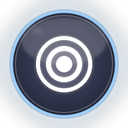
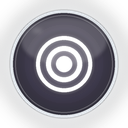
fix(staff): restyle accept/decline stickers to black modpanel glass
Drop green/red/blue halos — same white-on-black glass as warn/mute.
Bump emoji names to hakumo_w3_* so Discord re-uploads the new art.

Changed region(s): [[0.0625, 0.0625, 0.9375, 0.9375]]

diff --git a/services/menu_banners.py b/services/menu_banners.py
@@ -92,11 +92,11 @@ STICKER_SPECS = {
     'helper':     {'accent': (240, 240, 245), 'icon': 'helper'},
     'moderator':  {'accent': (230, 230, 240), 'icon': 'mod'},
     'heart':      {'accent': (245, 245, 250), 'icon': 'heart'},
-    # Набор в команду
-    'accept':     {'accent': (120, 220, 160), 'icon': 'accept'},
-    'decline':    {'accent': (235, 120, 130), 'icon': 'decline'},
-    'eventsmod':  {'accent': (180, 200, 240), 'icon': 'event'},
-    'broadcaster': {'accent': (160, 210, 255), 'icon': 'broadcast'},
+    # Набор в команду — тот же чёрный glass, что у модпанели (без цветных ореолов)
+    'accept':     {'accent': (240, 240, 245), 'icon': 'accept'},
+    'decline':    {'accent': (235, 235, 240), 'icon': 'decline'},
+    'eventsmod':  {'accent': (230, 230, 240), 'icon': 'event'},
+    'broadcaster': {'accent': (230, 235, 240), 'icon': 'broadcast'},
     # Events /event-panel
     'signup':     {'accent': (80, 220, 160), 'icon': 'user'},
     'announce':   {'accent': (94, 200, 255), 'icon': 'helper'},
